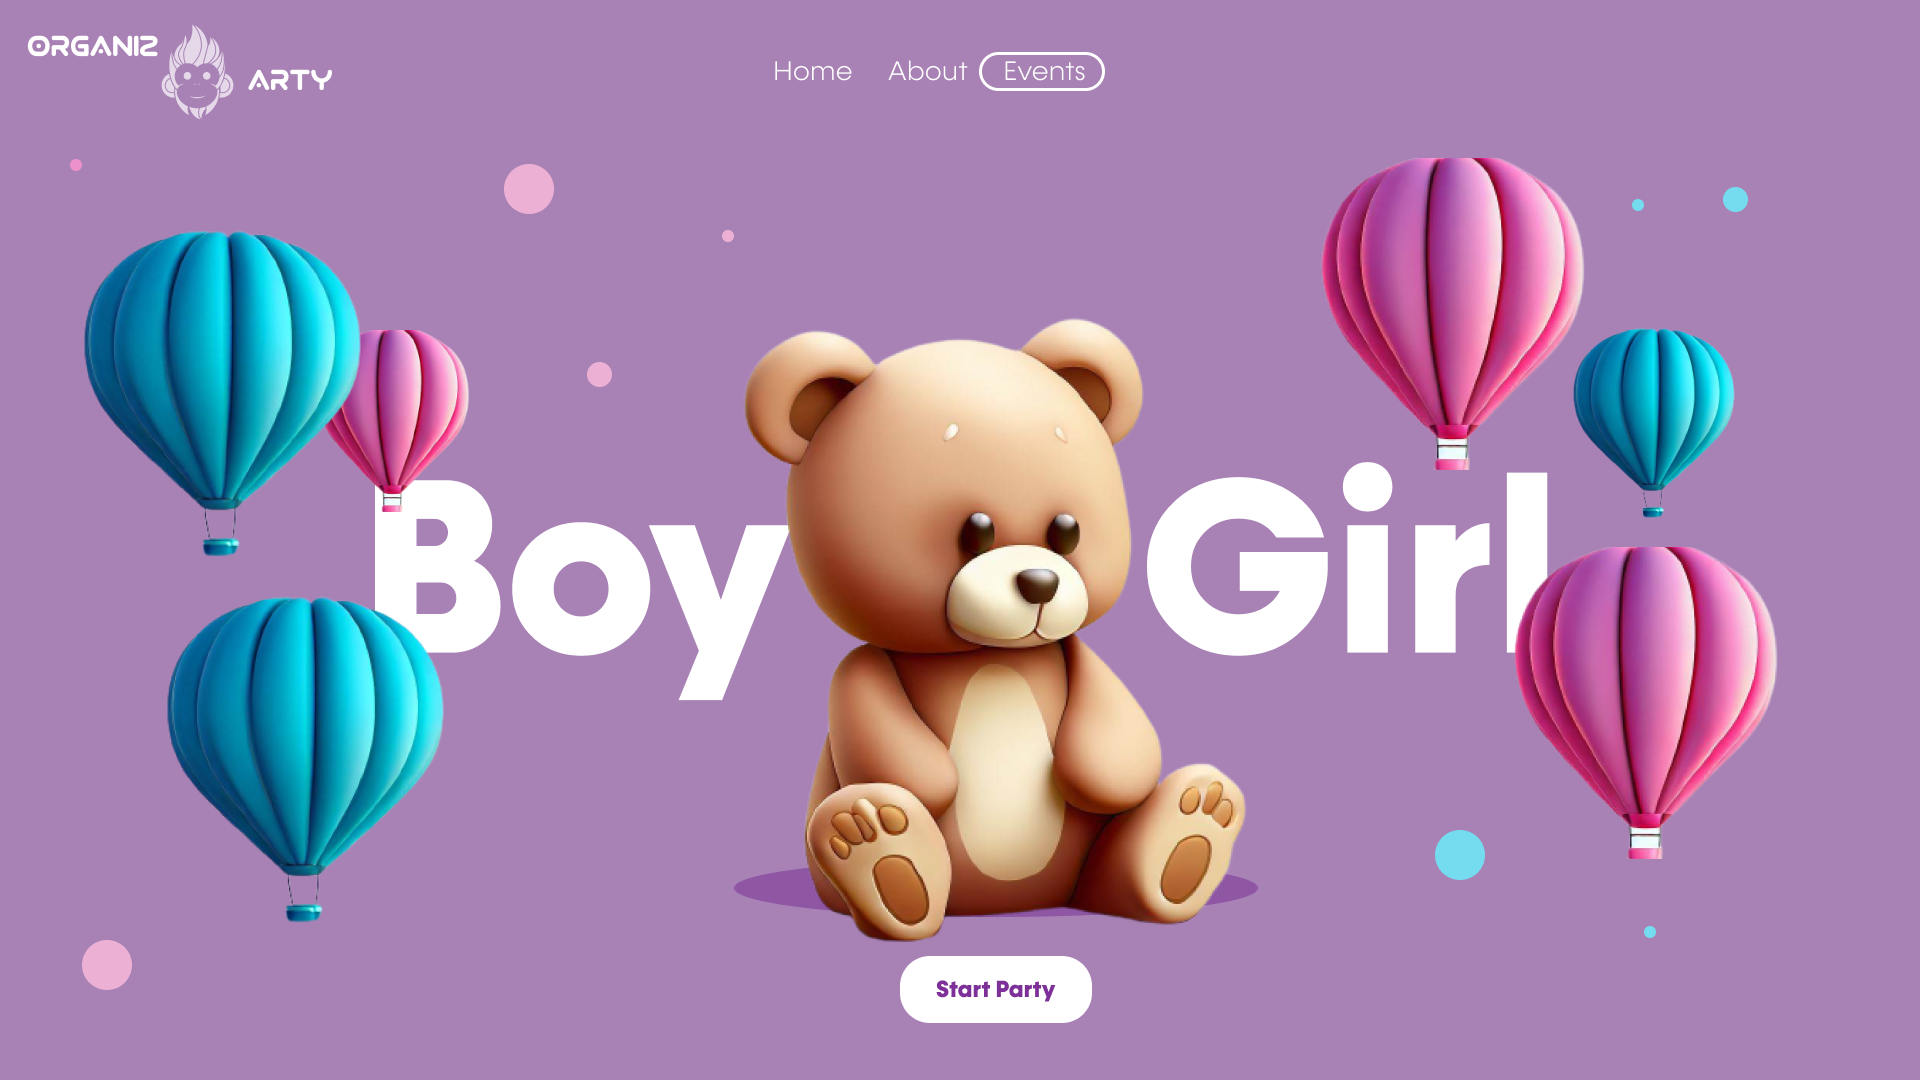
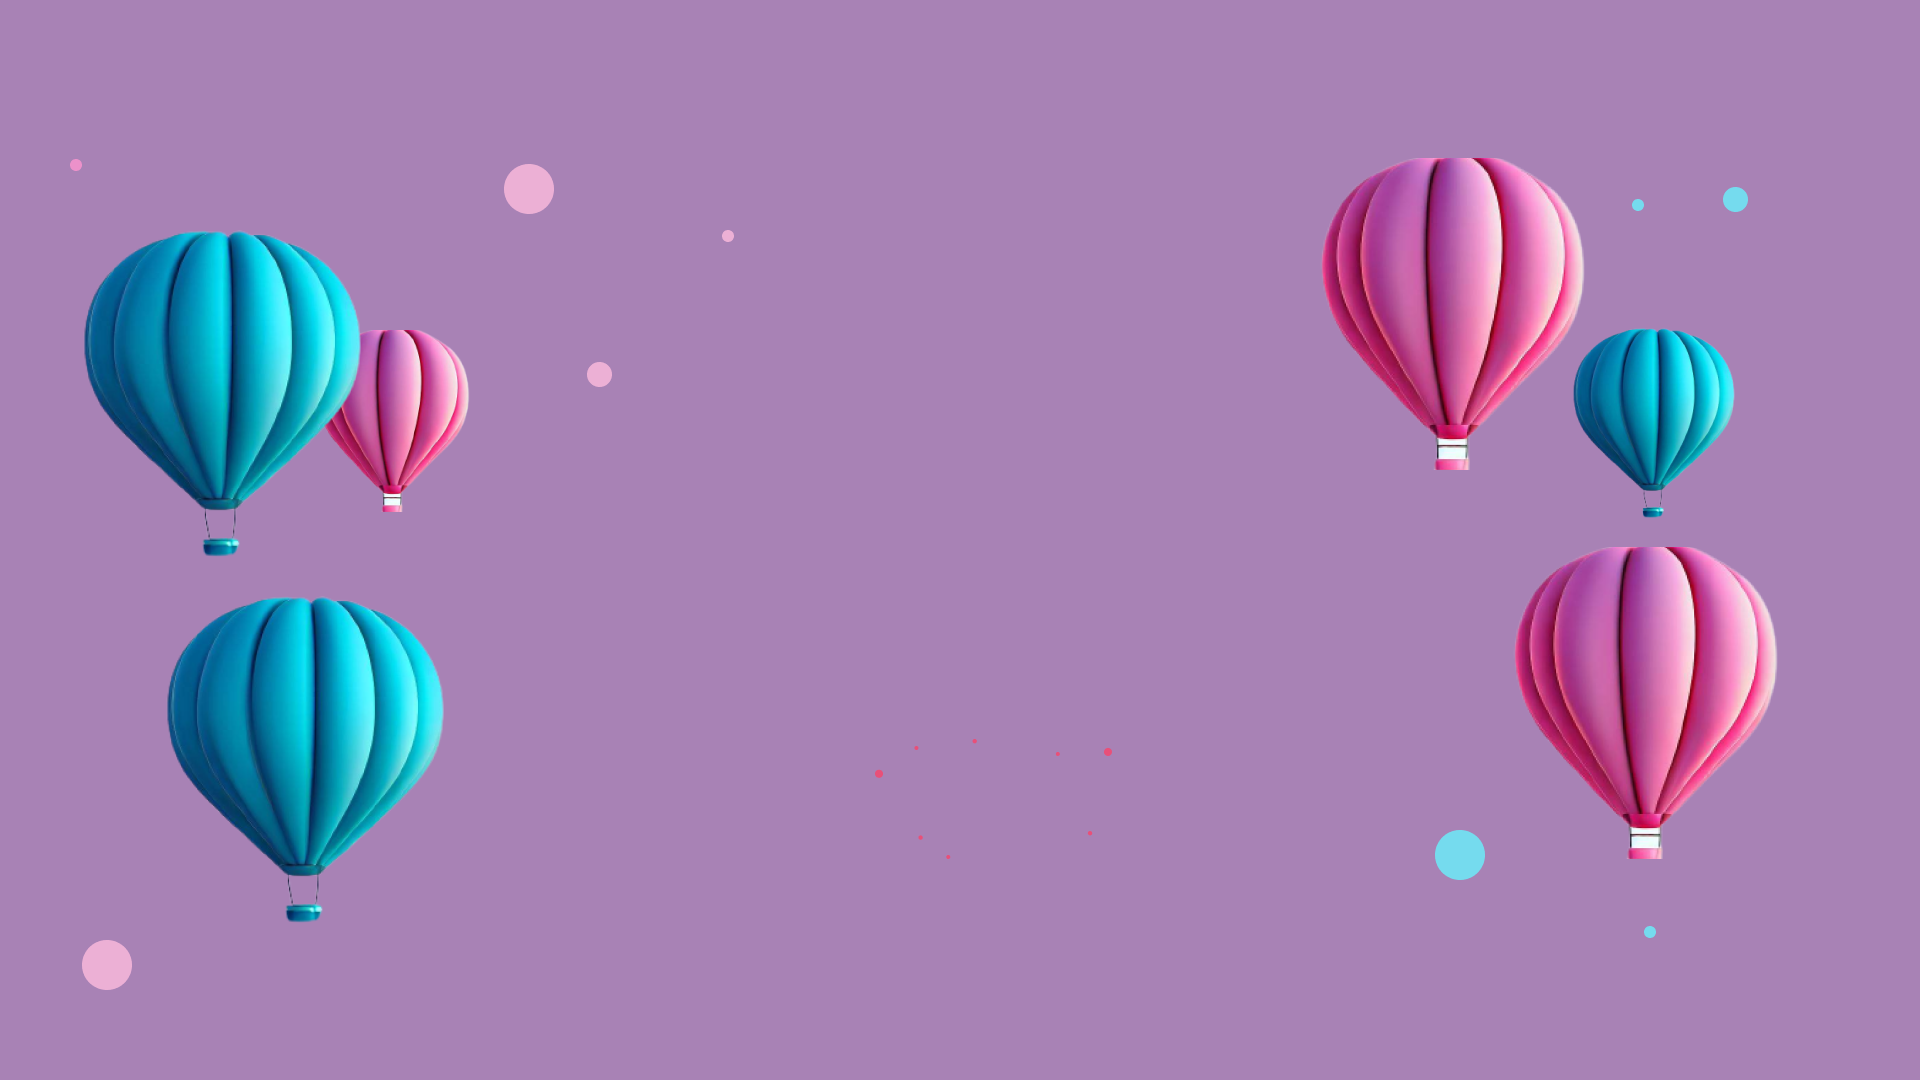
Terceira tela

diff --git a/Organizarty - OnePage/index.html b/Organizarty - OnePage/index.html
@@ -5,21 +5,22 @@
   <meta name="viewport" content="width=device-width, initial-scale=1.0">
   <title>Organizarty - A arte de fazer festa</title>
   <link rel="stylesheet" href="css/reset.css"/>
-  <link rel="stylesheet" href="css/style.css"/>
+  <link rel="stylesheet" href="css/inicial.css"/>
   <link rel="stylesheet" href="css/about.css"/>
   <link rel="stylesheet" href="css/root.css"/>
+  <link rel="stylesheet" href="css/boyOrGirl.css"/>
   <link rel="icon" href="img/Icone.png"/>
 </head>
 <body>
-    <section class="inicial">
+    <section id="inicial">
     <header>
       <div class="navbar">  
         <a href="#"><img class="logo" src="img/Logo.png"/></a>
           <ul id="navbar">
             <li>
-              <a class="itens item1" href="#">Home</a>
-              <a class="itens" href="#about">About</a>
-              <a class="itens" href="#">Events</a>
+              <a class="itens" data-changeColor="white" href="#">Home</a>
+              <a class="itens" data-changeColor="white" href="#about">About</a>
+              <a class="itens" data-changeColor="white" href="#boyOrGirl">Events</a>
             </li>
           </ul>
         </div>
@@ -56,30 +57,13 @@
       </div>
     </section>
 
-    <section class="boyOrGirl">
-
-      <div class="baloesEsquerda">
-
+    <section id="boyOrGirl">
+      <div class="container3">
+          <img id="urso" src="img/ursinho.png">
+          <h1>Boy or Girl</h1>
+          
       </div>
-      <div class="bolinhasEsquerda">
-
-      </div>
-      <div class="textoCentral">
-        <h2>Boy or Girl</h2>
-      </div>
-      <div class="ursinho">
-
-      </div>
-
-      <div class="baloesDireita">
-        
-      </div>
-      <div class="bolinhasDireita">
-
-      </div>
-
-      
     </section>
-
+<script type ="text/javascript" src="js/script.js"></script>
 </body>
 </html>

diff --git a/Organizarty - OnePage/css/inicial.css b/Organizarty - OnePage/css/inicial.css
@@ -5,25 +5,18 @@
 body, html {
     height:100%;
     scroll-behavior: smooth;
-  }
+}
+
 section{
-    background-attachment: fixed;
+    /* background-attachment: fixed; */
     background-position: center;
     background-repeat: no-repeat;
     background-size: cover;
     min-height: 100%;
 }
 
-  .inicial{
+  #inicial{
     background-image: url(../img/Gradiente\ pq\ n\ da\ pra\ pegar\ a\ imagem\ do\ debaixo.png);
-  }
-
-  #about{
-    background-image: url(../img/pagina2.png);
-  }
-
-  .boyOrGirl{
-      background-color: var(--lilas);
   }
 
 .logo{
@@ -39,7 +32,6 @@ section{
 .navbar{
     display: flex;
     margin-right: 4vh;
-    z-index:0;
 }
 
 #navbar{
@@ -58,12 +50,13 @@ section{
     justify-content: center;
     position: fixed;
     margin-top: 5vh;
-}    
+}   
 
 .itens{
     padding: 10px;
     text-decoration: none;
     color: var(--cinza);
+
 }
 
 .itens:hover{
@@ -71,20 +64,25 @@ section{
     transition: all 0.4s;  
 }
 
-/* .item1{
-    box-sizing: border-box;
-    border: 2px solid var(--cinza);
-    border-radius: 40%;
+[data-changeColor]{
+    transition: 0.4s;
 }
 
-.item1:hover{
-    border: 2px solid var(--rosa);
+[data-changeColor="white"]{
+    color: var(--cinza);
 }
- */
+
+[data-changeColor].animate{
+    color: var(--branco);
+}
+
+[data-changeColor].animate:hover{
+    color: var(--rosa);
+}
+
  .container{
     display: flex;
     justify-content: space-between;
-    height:91vh;
  }
 
 .mascote{

diff --git a/Organizarty - OnePage/js/script.js b/Organizarty - OnePage/js/script.js
@@ -1,0 +1,23 @@
+const item = document.querySelectorAll("[data-changeColor]");
+
+const navBarChangeColor = () => {
+
+    const windowTop = window.scrollY /* + window.innerHeight * 0.87 */;
+
+    item.forEach((element) => {
+        console.log(windowTop);
+        if (windowTop >= 700) {
+            
+            console.log("altura do scroll: " + element.offsetTop);
+            element.classList.add("animate");
+        } else {
+            element.classList.remove("animate");
+        }
+    })
+};
+
+navBarChangeColor();
+
+window.addEventListener("scroll", () => {
+    navBarChangeColor();
+})

diff --git a/Organizarty - OnePage/css/boyOrGirl.css b/Organizarty - OnePage/css/boyOrGirl.css
@@ -1,0 +1,26 @@
+#boyOrGirl{
+    background-image: url(../img/Boy\ or\ Girl.png);
+}
+.container3{
+    width: 100%;
+    height:100vh;
+    display:flex;
+    justify-content: center;
+    align-items: center;
+}
+
+.container3 h1{
+    position: relative;
+    font-family: KonnectBold;
+    color: var(--branco);
+    font-size: 11vw;
+    z-index:0;
+    margin-right:2vw;
+}
+
+#urso{
+    /* border: red dashed 1px; */
+    position: absolute;
+    width: 40vw;
+    z-index:1;
+}

diff --git a/Organizarty - OnePage/css/about.css b/Organizarty - OnePage/css/about.css
@@ -5,6 +5,11 @@
     align-items: center;
     justify-content: center;
 }
+#about{
+    height: 100vh;
+    background-image: url(../img/pagina2.png);
+      
+}
 .container2{
     display: flex;
     flex-direction: column;
@@ -33,5 +38,6 @@
     font-size:1.3vw;
     text-align: justify;
     font-family: Konnect;
+    line-height: 4vh;
     /* border: red solid 0.1px; */
 }
